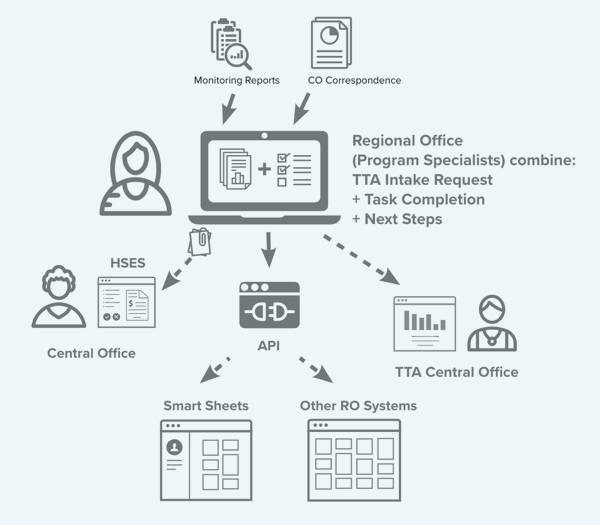
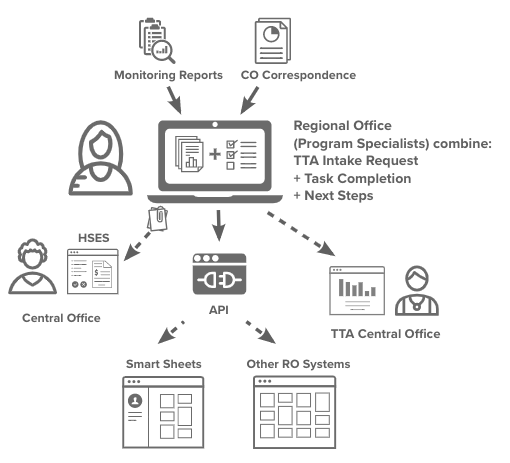
more project detail (WIP) tweaks

diff --git a/assets/css/style.css b/assets/css/style.css
@@ -130,7 +130,7 @@ p, li {
 
 .project-story-left  {
   float: left;
-  max-width: 50%;
+  max-width: 55%;
 }
 
 .project-detail .usa-section p.project-quote-right {
@@ -139,19 +139,23 @@ p, li {
   font-style: italic;
   line-height: 2.666rem;
   float: right;
-  max-width: 50%;
+  max-width: 40%;
 }
 
+.project-story figure {
+  margin: 0 1rem;
+}
 
 figure.project-right {
   float: right;
   max-width: 40%;
+  margin-right: 0;
 }
 
 figure.project-left {
   float: left;
   max-width: 40%;
-  border-right: 2px solid #5b5b5bac;
+  margin-left: 0;
 }
 
 .project-story figure > figcaption {

diff --git a/_projects/ohs-tta.md b/_projects/ohs-tta.md
@@ -97,11 +97,12 @@ It is difficult to measure or track any success metric over time.
 
 ## What’s next
 
+<div class="project-story-left">
+  <p>Through our research and initial prioritization of opportunities, we’ve determined that the ‘Activity Reporting & Analysis’ phase in the TTA process is a good place to begin exploring solutions. An MVP focused on Program Specialists is an opportunity to digitize the TTA request process which will provide a centralized place where these users can track activity through to completion and get a more complete view of progress over time and across topic areas.</p>
+</div>
 {::nomarkdown}
-{% include project-image.html side="right" file="ohstta-current.png" caption="Figure showing the complexities of the TTA system with multiple data sources and consumers." %}
+{% include project-image.html side="right" file="ohsttamvp-map.png" caption="A central system for incoming TTA activity data with an API layer to serve all audiences." %}
 {:/}
-
-Through our research and initial prioritization of opportunities, we’ve determined that the ‘Activity Reporting & Analysis’ phase in the TTA process is a good place to begin exploring solutions. An MVP focused on Program Specialists is an opportunity to digitize the TTA request process which will provide a centralized place where these users can track activity through to completion and get a more complete view of progress over time and across topic areas.
 
 {::nomarkdown}
 {% include project-section.html type="end" %}
